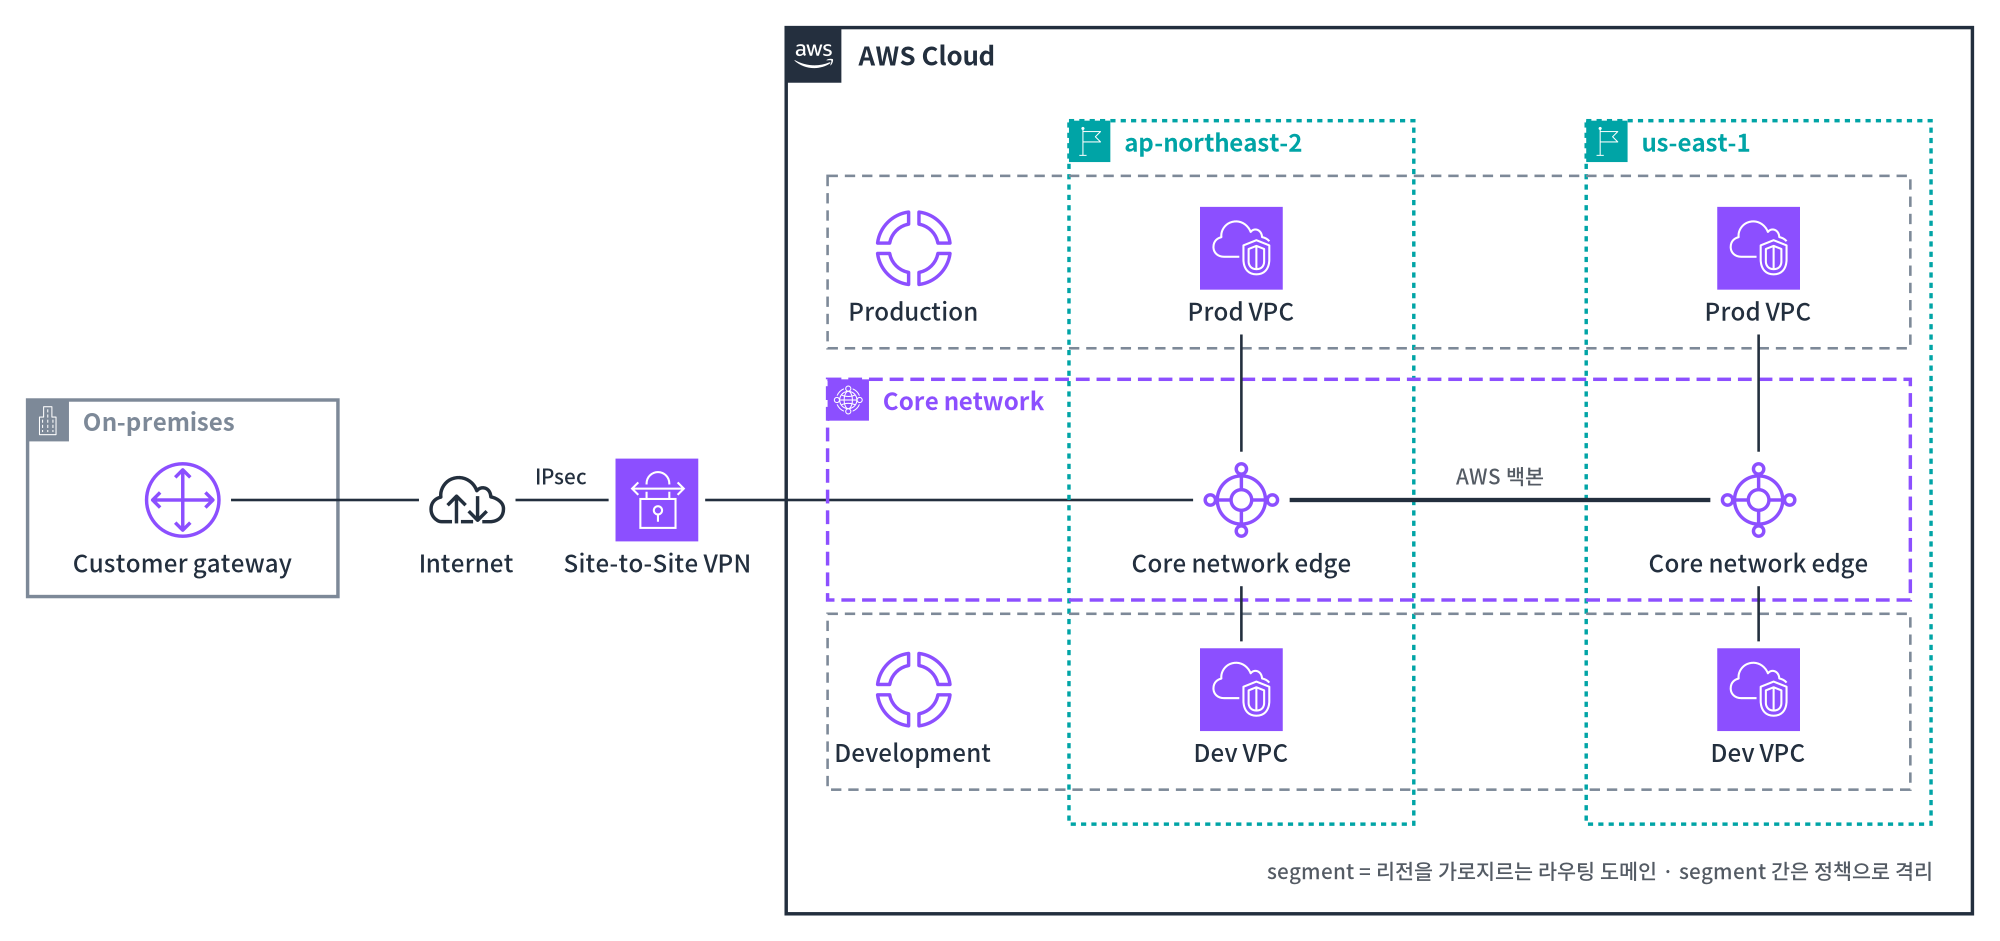
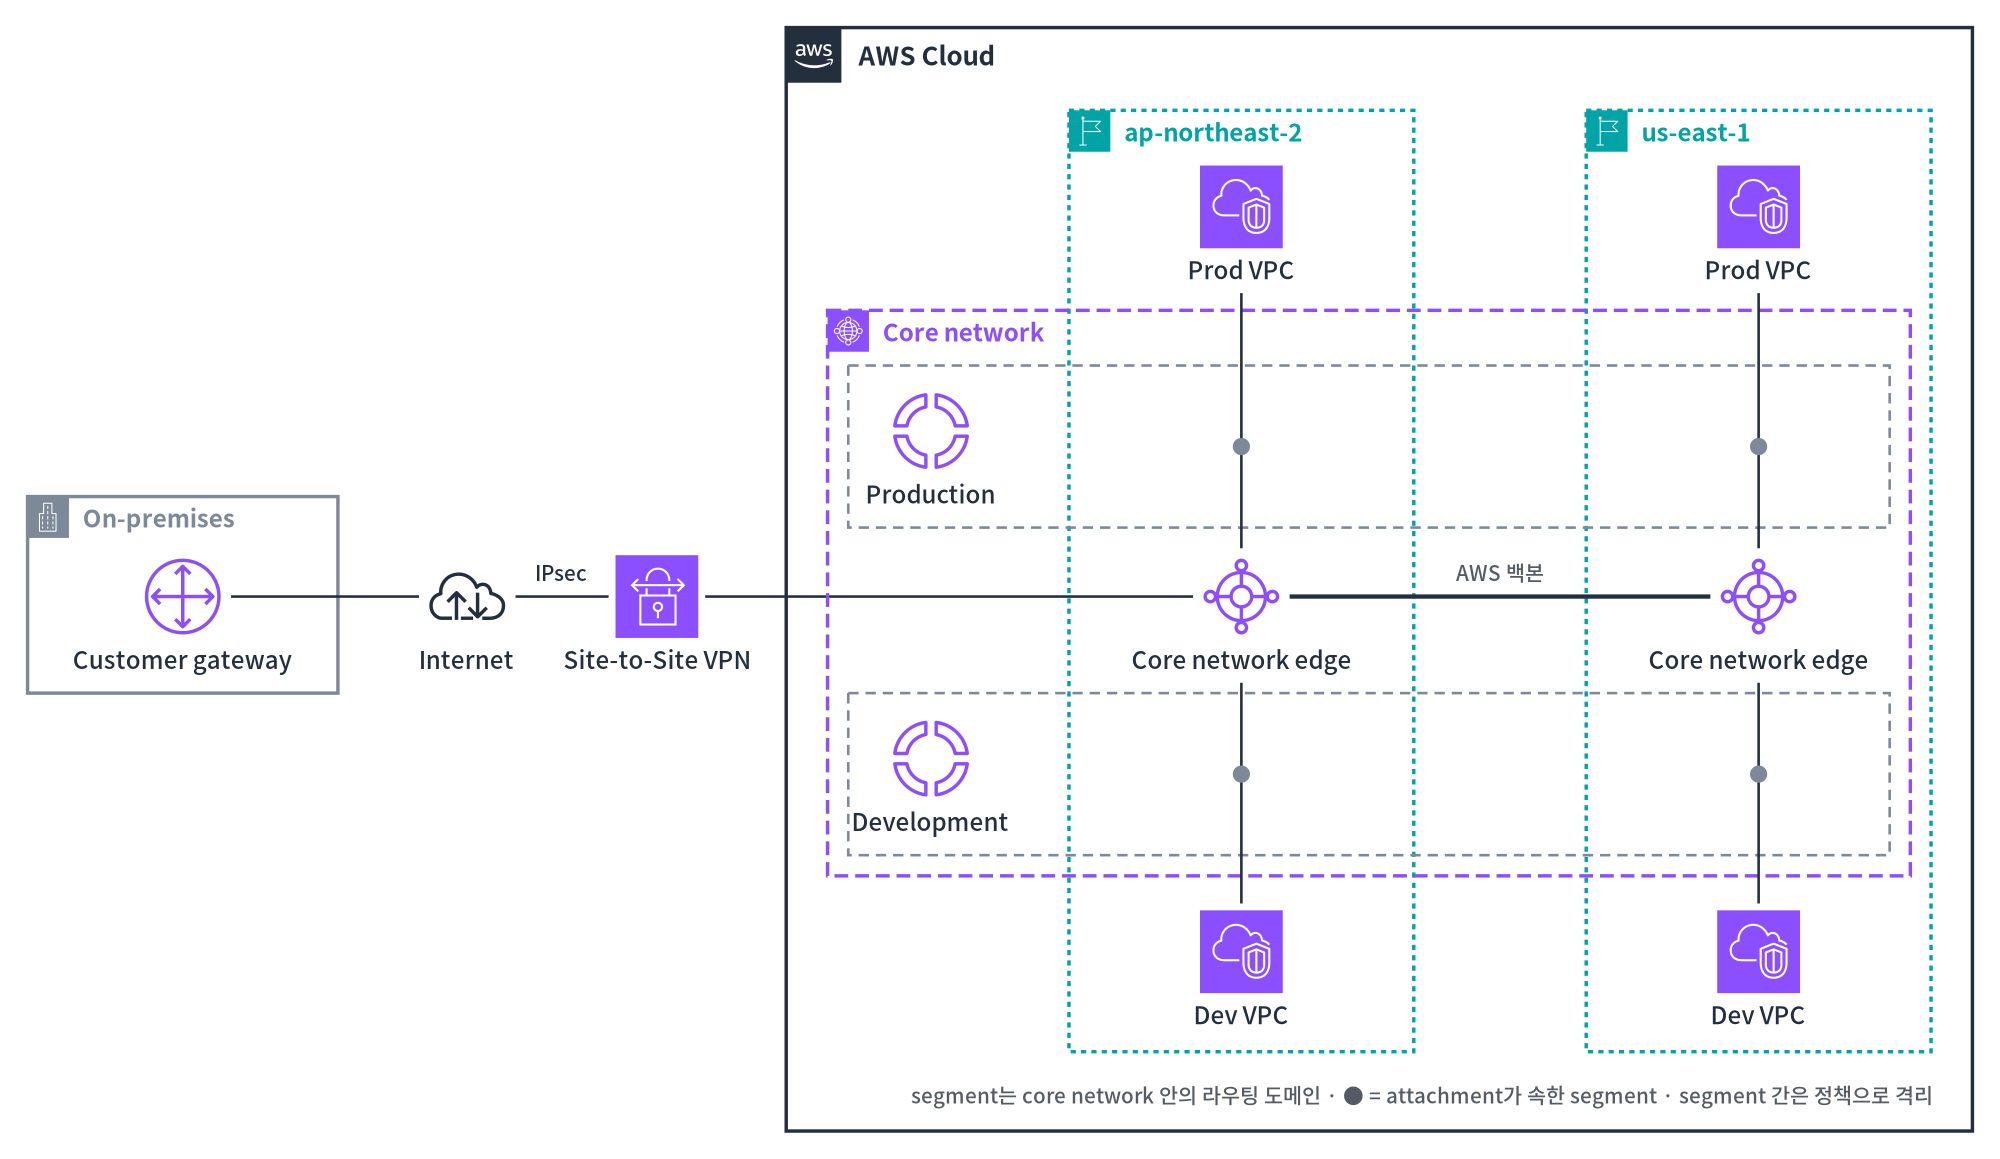
Put the Cloud WAN segments inside the core network container with VPCs outside attaching through their segment, and let check_layout skip junction dots on their own line

diff --git a/scripts/check_layout.py b/scripts/check_layout.py
@@ -13,7 +13,7 @@ Reports, and exits with status 1 on any of them:
                    (labels centered under an icon are node labels and are skipped)
 
 Anything covered by a white mask rect drawn later (the IGW/VGW on the VPC border)
-is not reported. Text widths are estimated (0.55 × font-size per Latin character,
+is not reported, nor is a small junction dot (circle, r ≤ 6) sitting on its own line. Text widths are estimated (0.55 × font-size per Latin character,
 1.0 × per Hangul/CJK character), so a hit within a pixel or two is worth a look in
 the render rather than a blind fix. Only translate() transforms are understood,
 which is all the skill's diagrams use.
@@ -136,7 +136,9 @@ def collect(svg_root):
                           "o": order, "badge": "group/" in href[:40]})
         elif tag == "circle":
             cx, cy, r = num(el.get("cx")) + ox, num(el.get("cy")) + oy, num(el.get("r"))
-            icons.append({"box": (cx - r, cy - r, cx + r, cy + r), "o": order, "badge": True})
+            # r <= 6: a junction dot drawn on a connector on purpose (e.g. segment membership)
+            icons.append({"box": (cx - r, cy - r, cx + r, cy + r), "o": order, "badge": True,
+                          "dot": (cx, cy) if r <= 6 else None})
         for child in el:
             walk(child, ox, oy)
 
@@ -177,6 +179,15 @@ def expand(b, d):
     return (b[0] - d, b[1] - d, b[2] + d, b[3] + d)
 
 
+def through(dot, s):
+    """Does segment s pass through point dot (a junction dot sits on its line)?"""
+    (x1, y1), (x2, y2) = s["p"], s["q"]
+    cx, cy = dot
+    length = ((x2 - x1) ** 2 + (y2 - y1) ** 2) ** 0.5 or 1.0
+    dist = abs((x2 - x1) * (y1 - cy) - (x1 - cx) * (y2 - y1)) / length
+    return dist < 1.0
+
+
 def masked(box, after, masks):
     return any(m["o"] > after and contains(m["box"], box) for m in masks)
 
@@ -202,6 +213,8 @@ def check(path):
     for i in icons:
         b = shrink(i["box"], 2.0)
         for s in segs:
+            if i.get("dot") and through(i["dot"], s):
+                continue
             if seg_hits_box(s["p"], s["q"], b) and not masked(i["box"], s["o"], masks):
                 what = "badge" if i["badge"] else "icon"
                 issues.append(f"LINE OVER ICON  {s['kind']} {fmt(s)} crosses the {what} at "

diff --git a/references/diagram_guide.md b/references/diagram_guide.md
@@ -451,15 +451,18 @@ are fine and common for FSI customer diagrams.
 - **Hybrid (EKS Hybrid Nodes, Direct Connect)**: Corporate-data-center group on one side,
   AWS Cloud on the other, connected via Direct Connect / VPN / Transit Gateway icon.
 - **Global network (AWS Cloud WAN)**: Regions as columns. The **core network is a
-  container**: a purple `#8C4FFF` dashed 2px band across every Region on the main
-  line, with the `service/AWS-Cloud-WAN` icon as its 24px corner badge and the label
-  "Core network" (no group icon exists for it; keep the label short so the Region
-  borders don't cross it). Inside it, one `resource/AWS-Cloud-WAN_Core-Network-Edge`
-  per Region joined by a thick "AWS 백본" line. Segments are grey dashed rows above
-  and below the band that cross every Region, each led by a
-  `resource/AWS-Cloud-WAN_Segment-Network` icon with the segment name, so a segment
-  visibly spans Regions. VPCs stay outside the core network, in their segment row,
-  and attach to their Region's edge with plain lines.
+  container** that holds everything that belongs to it — the segments and the core
+  network edges: a purple `#8C4FFF` dashed 2px band across every Region, with the
+  `service/AWS-Cloud-WAN` icon as its 24px corner badge and the label "Core network"
+  (no group icon exists for it; keep the label short so the Region borders don't cross
+  it). Inside it, top to bottom: one segment row, the edge row on the main line (one
+  `resource/AWS-Cloud-WAN_Core-Network-Edge` per Region, joined by a thick "AWS 백본"
+  line), another segment row. Each segment row is a grey dashed box across every
+  Region, led by a `resource/AWS-Cloud-WAN_Segment-Network` icon with the segment
+  name. **VPCs stay outside the core network** (above and below it, in their Region
+  column); each attachment is one plain line from the VPC through its segment row to
+  its Region's edge, with a 5px grey junction dot where it crosses that row to mark
+  the segment membership (explain the dot in the note).
 - **Agentic AI (AgentCore)**: `service/Amazon-Bedrock` for the models,
   `service/Amazon-Bedrock-AgentCore` for the agent platform (see "Bedrock and
   AgentCore" for components), and standard icons for the surrounding infra.

diff --git a/SKILL.md b/SKILL.md
@@ -44,7 +44,7 @@ ambiguous; otherwise proceed with a sensible default and note assumptions.
 `docs/examples/` holds finished, checked reference diagrams — NLB, ALB (3-tier with
 WAF and RDS Multi-AZ), GWLB (distributed inspection), Transit Gateway (hub and
 spoke in two Regions joined by TGW peering, VPCs as single icons) and AWS Cloud WAN
-(core network as a container across the Regions, an edge per Region, segments as rows). When the request resembles
+(segments and an edge per Region inside the core network container, VPCs outside). When the request resembles
 one of them, open its SVG and reuse its layout and coordinates (canvas, AZ rows, tier
 columns, gap, IGW, regional-services row, note line) instead of laying out from
 scratch. `docs/example.svg` is the minimal skeleton.
